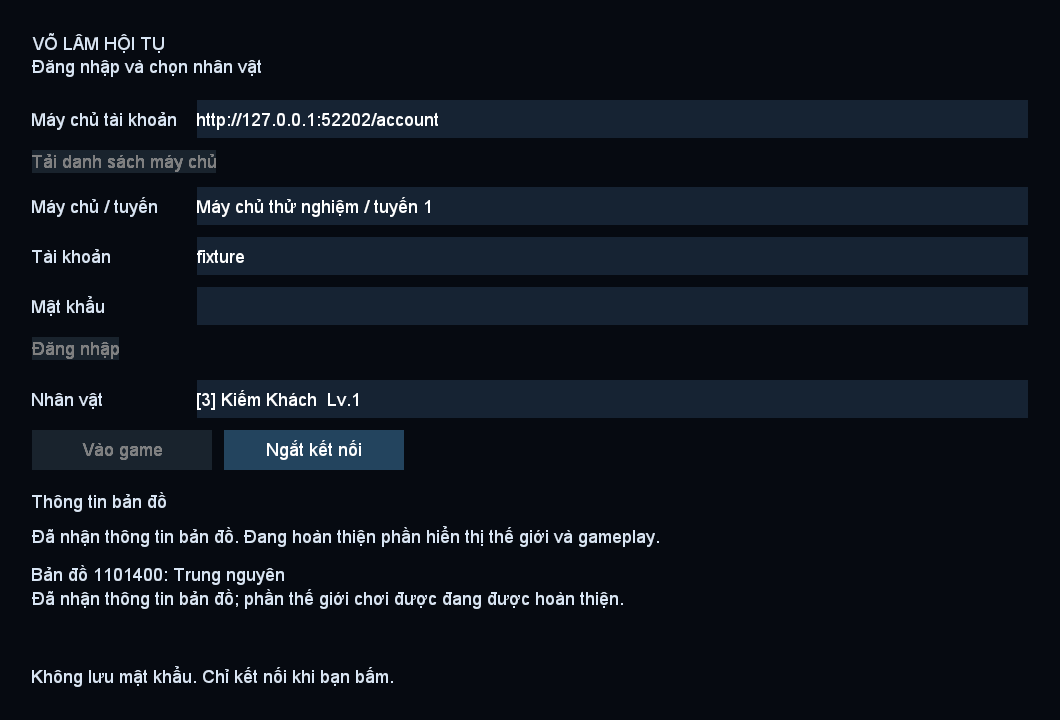
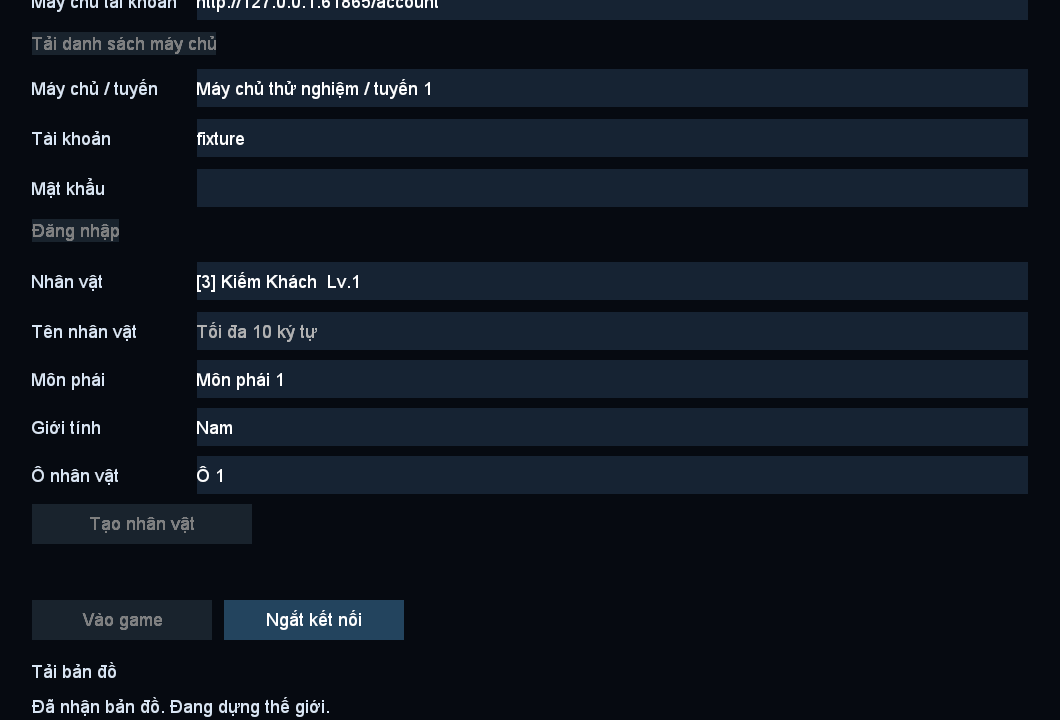
Add the creation screen and keep a map announcement from killing the session
NewRoleForm is CTRL_NEWROLE_WND as one widget: it collects a name, a profession,
a sex and a slot and reports them, owning no session state. The choices follow
newRoleLookFaceDatID, so a sex whose column is zero is never offered and the
professions with an empty row are absent. It numbers the professions rather than
naming them, because the original asks the server for that text with 1602.

LoginView gains createRole and the mediator routes it like every other intent.

publishMap treated a map identity with no resources as a broken transfer, so a
role the server only announces a map for dropped any session that had a world
attached - which is every session the launcher builds. A 1407 set that never
started is an announcement; only a half-arrived one is an error. This is what
NativeLoginProbe was failing on.

diff --git a/client-core/src/main/java/vn/swordol/client/ui/NewRoleForm.java b/client-core/src/main/java/vn/swordol/client/ui/NewRoleForm.java
@@ -1,0 +1,167 @@
+package vn.swordol.client.ui;
+
+import com.badlogic.gdx.scenes.scene2d.Actor;
+import com.badlogic.gdx.scenes.scene2d.ui.Label;
+import com.badlogic.gdx.scenes.scene2d.ui.SelectBox;
+import com.badlogic.gdx.scenes.scene2d.ui.Skin;
+import com.badlogic.gdx.scenes.scene2d.ui.Table;
+import com.badlogic.gdx.scenes.scene2d.ui.TextButton;
+import com.badlogic.gdx.scenes.scene2d.ui.TextField;
+import com.badlogic.gdx.scenes.scene2d.utils.ChangeListener;
+import com.badlogic.gdx.utils.Array;
+import java.util.List;
+import vn.swordol.protocol.wire.LoginPackets;
+import vn.swordol.protocol.wire.RoleLooks;
+
+/**
+ * The creation window of the original, CTRL_NEWROLE_WND, as one Scene2D widget: a name, a
+ * profession, a sex and the slot it goes into. It only collects input and reports it; it owns no
+ * session state and talks to no network.
+ *
+ * <p>The rules it enforces are the screen's own. The name field stops at ten characters the way
+ * setCharLimit(10) does, a profession whose whole row of newRoleLookFaceDatID is zero is not
+ * offered at all, the sex list holds only what that profession has a look for, and a slot already
+ * holding a character cannot be chosen.
+ */
+public final class NewRoleForm extends Table {
+  /** What the form reports when the player confirms; the screen above decides what to do. */
+  public interface Listener {
+    void createRole(String name, int sex, int profession, int slot);
+  }
+
+  private final Skin skin;
+  private final TextField name;
+  private final SelectBox<Option> profession;
+  private final SelectBox<Option> sex;
+  private final SelectBox<Option> slot;
+  private final TextButton create;
+  private final Label notice;
+  private Listener listener;
+
+  public NewRoleForm(Skin skin) {
+    this.skin = skin;
+    this.name = new TextField("", skin);
+    this.profession = new SelectBox<>(skin);
+    this.sex = new SelectBox<>(skin);
+    this.slot = new SelectBox<>(skin);
+    this.create = new TextButton("Tạo nhân vật", skin);
+    this.notice = new Label("", skin);
+
+    name.setMaxLength(LoginPackets.ROLE_NAME_LIMIT);
+    name.setMessageText("Tối đa " + LoginPackets.ROLE_NAME_LIMIT + " ký tự");
+    profession.setItems(professionOptions());
+    profession.addListener(
+        new ChangeListener() {
+          @Override
+          public void changed(ChangeEvent event, Actor actor) {
+            refreshSexOptions();
+          }
+        });
+    create.addListener(
+        new ChangeListener() {
+          @Override
+          public void changed(ChangeEvent event, Actor actor) {
+            submit();
+          }
+        });
+    notice.setWrap(true);
+
+    row("Tên nhân vật", name);
+    row("Môn phái", profession);
+    row("Giới tính", sex);
+    row("Ô nhân vật", slot);
+    add(create).colspan(2).left().width(220).height(40).padBottom(8).row();
+    add(notice).colspan(2).growX().height(34).row();
+    refreshSexOptions();
+    refreshSlots(java.util.Collections.<LoginPackets.Role>emptyList());
+  }
+
+  public void setListener(Listener listener) {
+    this.listener = listener;
+  }
+
+  /** Offers only the slots this account has left; disables the form when all three are taken. */
+  public void refreshSlots(List<LoginPackets.Role> roles) {
+    Array<Option> free = new Array<>();
+    for (int index = 0; index < LoginPackets.ROLE_SLOTS; index++) {
+      boolean taken = false;
+      for (LoginPackets.Role role : roles) if (role.slot() == index) taken = true;
+      if (!taken) free.add(new Option(index, "Ô " + (index + 1)));
+    }
+    slot.setItems(free);
+    boolean room = free.size > 0;
+    slot.setDisabled(!room);
+    create.setDisabled(!room);
+    notice.setText(room ? "" : "Đã dùng hết 3 ô nhân vật.");
+  }
+
+  public void setEnabled(boolean enabled) {
+    name.setDisabled(!enabled);
+    profession.setDisabled(!enabled);
+    sex.setDisabled(!enabled);
+    slot.setDisabled(!enabled || slot.getItems().size == 0);
+    create.setDisabled(!enabled || slot.getItems().size == 0);
+  }
+
+  private void submit() {
+    if (listener == null || create.isDisabled()) return;
+    String wanted = name.getText().trim();
+    if (wanted.isEmpty()) {
+      notice.setText("Hãy nhập tên.");
+      return;
+    }
+    Option chosenSlot = slot.getSelected(), chosenSex = sex.getSelected();
+    Option chosenProfession = profession.getSelected();
+    if (chosenSlot == null || chosenSex == null || chosenProfession == null) return;
+    notice.setText("");
+    listener.createRole(wanted, chosenSex.value, chosenProfession.value, chosenSlot.value);
+  }
+
+  /** The sex list follows the look table: a column of zero is a button the original deactivates. */
+  private void refreshSexOptions() {
+    Option chosen = profession.getSelected();
+    Array<Option> options = new Array<>();
+    if (chosen != null) {
+      if (RoleLooks.offers(chosen.value, RoleLooks.MALE))
+        options.add(new Option(RoleLooks.MALE, "Nam"));
+      if (RoleLooks.offers(chosen.value, RoleLooks.FEMALE))
+        options.add(new Option(RoleLooks.FEMALE, "Nữ"));
+    }
+    sex.setItems(options);
+    sex.setDisabled(options.size < 2);
+  }
+
+  /**
+   * The original shows no profession name of its own: NewRoleWnd_Flush asks the server for the
+   * description with packet 1602 and shows whatever comes back, so this numbers them until that
+   * request is implemented rather than inventing sect names.
+   */
+  private static Array<Option> professionOptions() {
+    Array<Option> options = new Array<>();
+    for (int index = 1; index <= RoleLooks.PROFESSIONS; index++) {
+      if (RoleLooks.creatable(index)) options.add(new Option(index, "Môn phái " + index));
+    }
+    return options;
+  }
+
+  private void row(String title, Actor input) {
+    add(new Label(title, skin)).width(165).left().padBottom(10);
+    add(input).growX().height(38).padBottom(10).row();
+  }
+
+  /** A choice that shows a label and carries the number the protocol wants. */
+  private static final class Option {
+    private final int value;
+    private final String label;
+
+    Option(int value, String label) {
+      this.value = value;
+      this.label = label;
+    }
+
+    @Override
+    public String toString() {
+      return label;
+    }
+  }
+}

diff --git a/client-core/src/test/java/vn/swordol/client/modules/login/GameSessionTest.java b/client-core/src/test/java/vn/swordol/client/modules/login/GameSessionTest.java
@@ -247,6 +247,55 @@ public class GameSessionTest {
     }
   }
 
+  @Test
+  public void aMapAnnouncementWithoutResourcesDoesNotKillAWorldSession() throws Exception {
+    // A role the server only announces a map for sends no 1407 at all. With a world attached the
+    // session used to treat that as a broken transfer and drop the connection.
+    GatewayServer.Account account =
+        new GatewayServer.Account(
+            7,
+            "fixture",
+            Arrays.asList(new GatewayServer.Role(42, "Local role", 0, 1101400, "Trung nguyen")));
+    try (GatewayServer server = new GatewayServer((name, password) -> account)) {
+      server.start();
+      BlockingQueue<GameSession.Snapshot> states = new LinkedBlockingQueue<>();
+      BlockingQueue<Runnable> callbacks = new LinkedBlockingQueue<>();
+      try (GameSession session =
+          new GameSession(callbacks::add, states::add, new RecordingWorld())) {
+        session.loadServers(server.accountEndpoint());
+        GameSession.Snapshot list = await(GameSession.Stage.SERVERS_READY, states, callbacks);
+        session.login(list.servers().get(0), "fixture", "fixture-only".toCharArray());
+        GameSession.Snapshot roles = await(GameSession.Stage.ROLES_READY, states, callbacks);
+        session.enter(roles.roles().get(0).id());
+        GameSession.Snapshot shown = await(GameSession.Stage.MAP_RECEIVED, states, callbacks);
+        assertEquals(1101400, shown.mapId());
+      }
+    }
+  }
+
+  /** A world that records nothing: this test only cares that the session survives. */
+  private static final class RecordingWorld
+      implements vn.swordol.client.modules.world.WorldListener {
+    @Override
+    public void mapLoaded(
+        vn.swordol.protocol.wire.WorldPackets.MapIdentity identity,
+        vn.swordol.protocol.wire.MapResource resource,
+        vn.swordol.protocol.wire.MapReferences references,
+        java.util.Map<Integer, byte[]> images) {}
+
+    @Override
+    public void mapUpdate(vn.swordol.protocol.wire.WorldPackets.MapUpdate update) {}
+
+    @Override
+    public void user(vn.swordol.protocol.wire.WorldPackets.UserInfo info) {}
+
+    @Override
+    public void otherPlayer(vn.swordol.protocol.wire.WorldPackets.PlayerInfo info) {}
+
+    @Override
+    public void walk(vn.swordol.protocol.wire.WorldPackets.Walk walk) {}
+  }
+
   private static GameSession.Snapshot awaitRoleCount(
       int wanted, BlockingQueue<GameSession.Snapshot> states, BlockingQueue<Runnable> callbacks)
       throws Exception {

diff --git a/client-core/src/main/java/vn/swordol/client/ui/NativeLoginGame.java b/client-core/src/main/java/vn/swordol/client/ui/NativeLoginGame.java
@@ -24,6 +24,7 @@ public final class NativeLoginGame extends ApplicationAdapter implements LoginVi
   private Label status, phase, map;
   private GameSession.Snapshot snapshot;
   private NativeWorldScreen worldScreen;
+  private NewRoleForm newRole;
   private Table root;
   private int frames;
 
@@ -58,6 +59,11 @@ public final class NativeLoginGame extends ApplicationAdapter implements LoginVi
     root.add(login).colspan(2).left().padBottom(20).row();
     roles = new SelectBox<>(skin);
     row(root, "Nhân vật", roles);
+    newRole = new NewRoleForm(skin);
+    newRole.setListener((name, sex, profession, slot) -> {
+      if (actions != null) actions.createRole(name, sex, profession, slot);
+    });
+    root.add(newRole).colspan(2).growX().padBottom(14).row();
     Table buttons = new Table();
     enter = new TextButton("Vào game", skin);
     TextButton disconnect = new TextButton("Ngắt kết nối", skin);
@@ -141,6 +147,7 @@ public final class NativeLoginGame extends ApplicationAdapter implements LoginVi
       com.badlogic.gdx.utils.Array<LoginPackets.Role> list = new com.badlogic.gdx.utils.Array<>();
       for (LoginPackets.Role role : next.roles()) list.add(role);
       roles.setItems(list);
+      newRole.refreshSlots(next.roles());
     }
     snapshot = next;
     phase.setText(stageLabel(next.stage()));
@@ -157,6 +164,7 @@ public final class NativeLoginGame extends ApplicationAdapter implements LoginVi
     login.setDisabled(!idle || next.servers().isEmpty());
     enter.setDisabled(next.stage() != GameSession.Stage.ROLES_READY || next.roles().isEmpty());
     roles.setDisabled(next.stage() != GameSession.Stage.ROLES_READY);
+    newRole.setEnabled(next.stage() == GameSession.Stage.ROLES_READY);
     map.setText(
         next.mapId() == 0
             ? ""

diff --git a/client-core/src/main/java/vn/swordol/client/modules/login/GameSession.java b/client-core/src/main/java/vn/swordol/client/modules/login/GameSession.java
@@ -380,6 +380,10 @@ public final class GameSession implements AutoCloseable {
     if (world == null) return;
     byte[] data = resources.completed(MapResourceAssembly.Kind.MAP_DATA);
     byte[] refs = resources.completed(MapResourceAssembly.Kind.MAP_REF);
+    // A role the server only announces a map for sends no 1407 at all. That is an announcement,
+    // not a broken transfer: show the identity and build no world. Only a half-arrived set is
+    // wrong.
+    if (data == null && refs == null && !resources.hasPending()) return;
     if (data == null || refs == null) {
       resources.reset();
       throw new IOException("Map identity arrived without its resources");

diff --git a/client-core/src/main/java/vn/swordol/client/modules/login/LoginView.java b/client-core/src/main/java/vn/swordol/client/modules/login/LoginView.java
@@ -8,6 +8,14 @@ public interface LoginView {
 
     void login(LoginPackets.ServerLine server, String account, char[] password);
 
+    /**
+     * Creates a character the way the original creation screen does.
+     *
+     * @param sex {@link vn.swordol.protocol.wire.RoleLooks#MALE} or {@code FEMALE}
+     * @param profession 1 to {@link vn.swordol.protocol.wire.RoleLooks#PROFESSIONS}
+     */
+    void createRole(String name, int sex, int profession, int slot);
+
     void enter(int roleId);
 
     void disconnect();

diff --git a/client-core/src/main/java/vn/swordol/client/modules/login/LoginFacade.java b/client-core/src/main/java/vn/swordol/client/modules/login/LoginFacade.java
@@ -169,6 +169,10 @@ public final class LoginFacade extends Facade implements AutoCloseable {
                   }
                 }
 
+                public void createRole(String name, int sex, int profession, int slot) {
+                  intent(() -> network.session.createRole(name, sex, profession, slot));
+                }
+
                 public void enter(int id) {
                   intent(() -> network.session.enter(id));
                 }
